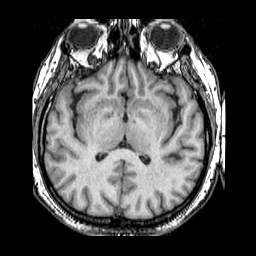
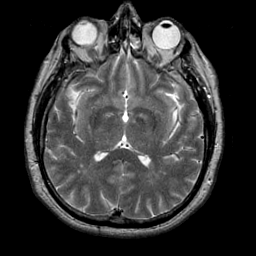
Remove onnx

diff --git a/api/engine.py b/api/engine.py
@@ -5,9 +5,7 @@ Shared inference engine for Med-V²QA.
 
 Loads the MUMC VQA model once at startup and exposes:
 
-* ONNX Runtime sessions for ``visual_encoder`` and ``text_encoder``
-  (primary path, when ``onnx_models/`` is present).
-* Raw PyTorch model as a transparent fallback when ONNX files are absent.
+* Raw PyTorch model for inference.
 
 The engine is instantiated once by ``api/main.py`` and injected into both
 ``GuardrailPipeline`` and ``BatchTriageService`` so the 2.2 GB checkpoint
@@ -15,7 +13,7 @@ is never loaded more than once.
 
 Public interface
 ----------------
-``engine.backend``  → "onnx" | "pytorch"
+``engine.backend``  → "pytorch"
 ``engine.model``    → loaded MUMC_VQA (always needed for decoder generate())
 ``engine.tokenizer``
 ``engine.transform``
@@ -37,10 +35,7 @@ from PIL import Image
 logger = logging.getLogger(__name__)
 
 # Paths relative to project root (one level above api/)
-_REPO_ROOT = Path(__file__).resolve().parent.parent
-_ONNX_DIR = _REPO_ROOT / "onnx_models"
-_VIS_ONNX = _ONNX_DIR / "visual_encoder.onnx"
-_TXT_ONNX = _ONNX_DIR / "text_encoder.onnx"
+
 
 
 class InferenceEngine:
@@ -71,10 +66,7 @@ class InferenceEngine:
         self.model, self.tokenizer, self.transform = load_model(self.device)
         logger.info("MUMC checkpoint loaded.")
 
-        # Always use the PyTorch (.pth) backend — no ONNX sessions.
-        self._vis_session = None
-        self._txt_session = None
-        self.backend: Literal["onnx", "pytorch"] = "pytorch"
+        self.backend: Literal["pytorch"] = "pytorch"
         logger.info("Backend: PyTorch (.pth checkpoint).")
 
     # ------------------------------------------------------------------
@@ -87,11 +79,7 @@ class InferenceEngine:
         return self.transform(image).unsqueeze(0).to(self.device)
 
     def _image_embeds(self, image_tensor: torch.Tensor) -> torch.Tensor:
-        """Run visual encoder (ONNX or PyTorch) → [1, N, 768]."""
-        if self.backend == "onnx":
-            img_np = image_tensor.cpu().numpy().astype(np.float32)
-            output = self._vis_session.run(None, {"image": img_np})
-            return torch.from_numpy(output[0]).to(self.device)
+        """Run visual encoder (PyTorch) → [1, N, 768]."""
         with torch.no_grad():
             return self.model.visual_encoder(image_tensor)
 
@@ -101,16 +89,7 @@ class InferenceEngine:
         image_atts: torch.Tensor,
         q_enc,
     ) -> torch.Tensor:
-        """Run text encoder (ONNX or PyTorch) → last_hidden_state [1, L, 768]."""
-        if self.backend == "onnx":
-            feeds = {
-                "input_ids":               q_enc.input_ids.cpu().numpy().astype(np.int64),
-                "attention_mask":          q_enc.attention_mask.cpu().numpy().astype(np.int64),
-                "encoder_hidden_states":   image_embeds.cpu().numpy().astype(np.float32),
-                "encoder_attention_mask":  image_atts.cpu().numpy().astype(np.int64),
-            }
-            output = self._txt_session.run(None, feeds)
-            return torch.from_numpy(output[0]).to(self.device)
+        """Run text encoder (PyTorch) → last_hidden_state [1, L, 768]."""
         with torch.no_grad():
             out = self.model.text_encoder(
                 q_enc.input_ids,
@@ -166,7 +145,7 @@ class InferenceEngine:
             return_tensors="pt",
         ).to(self.device)
 
-        # 3. Encode via ONNX or PyTorch
+        # 3. Encode via PyTorch
         image_embeds = self._image_embeds(image_tensor)
         image_atts = torch.ones(image_embeds.size()[:-1], dtype=torch.long).to(self.device)
         question_hidden = self._question_hidden_states(image_embeds, image_atts, q_enc)

diff --git a/api/schemas.py b/api/schemas.py
@@ -16,7 +16,7 @@ from pydantic import BaseModel, Field
 
 class HealthResponse(BaseModel):
     status: Literal["ok"] = "ok"
-    backend: Literal["onnx", "pytorch"]
+    backend: Literal["pytorch"]
     device: str
 
 
@@ -57,7 +57,7 @@ class PredictResponse(BaseModel):
     )
 
     gate_detail: GateDetail = Field(default_factory=GateDetail)
-    backend: Literal["onnx", "pytorch"] = Field(
+    backend: Literal["pytorch"] = Field(
         ..., description="Inference backend used for this request."
     )
     latency_ms: Dict[str, float] = Field(
@@ -91,7 +91,7 @@ class TriageResponse(BaseModel):
 
     queue: List[TriageItem] = Field(..., description="Sorted triage queue.")
     total_images: int
-    backend: Literal["onnx", "pytorch"]
+    backend: Literal["pytorch"]
     latency_ms: float = Field(..., description="Total triage pipeline latency in ms.")
 
 

diff --git a/guardrail/config.py b/guardrail/config.py
@@ -47,7 +47,7 @@ MEDICAL_SEED_TOKENS: list[str] = [
 #   0.05 → very permissive (almost no false rejections)
 #   0.10 → default         (good balance; rejects clearly non-medical text)
 #   0.20 → strict          (may reject short or ambiguous clinical questions)
-INTENT_THRESHOLD: float = 0.10
+INTENT_THRESHOLD: float = 0.20
 
 # ---------------------------------------------------------------------------
 # Gate 2 – CLIP Medical Image Classifier
@@ -68,7 +68,7 @@ CLIP_MODEL_PATH: str = os.path.join(_REPO_ROOT, "guardrail", "clip_model")
 #   0.45 → permissive  (flags only obviously non-medical images)
 #   0.55 → default     (good balance; rejects pets, nature photos, selfies)
 #   0.70 → strict      (may reject low-quality or atypical scans)
-CLIP_THRESHOLD: float = 0.55
+CLIP_THRESHOLD: float = 0.60
 
 # Kept for backward-compat with any code that imports these names.
 CONFIDENCE_THRESHOLD: float = CLIP_THRESHOLD
@@ -79,7 +79,7 @@ TRIAGE_YES_THRESHOLD: float = CLIP_THRESHOLD
 # self-contained and does not hard-code paths in multiple places)
 # ---------------------------------------------------------------------------
 
-CHECKPOINT_PATH: str = os.path.join(_REPO_ROOT, "med_pretrain_29_rad_31.pth")
+CHECKPOINT_PATH: str = os.path.join(_REPO_ROOT, "med_pretrain_29_rad_34.pth")
 CONFIG_PATH: str = os.path.join(_REPO_ROOT, "configs", "VQA.yaml")
 TEXT_ENCODER: str = "bert-base-uncased"
 TEXT_DECODER: str = "bert-base-uncased"

diff --git a/api/main.py b/api/main.py
@@ -70,7 +70,7 @@ async def lifespan(app: FastAPI):
     logger.info("  Med-V²QA API — startup")
     logger.info("═" * 60)
 
-    # 1. Load shared inference engine (checkpoint + optional ONNX sessions)
+    # 1. Load shared inference engine (checkpoint)
     _engine = InferenceEngine()
     logger.info("InferenceEngine ready  (backend=%s, device=%s)",
                 _engine.backend, _engine.device)
@@ -203,7 +203,7 @@ async def predict(
 
     - **Gate 1 (intent)** — rejects non-medical questions before the image is processed.
     - **Gate 2 (confidence)** — rejects non-medical images based on Softmax confidence.
-    - **VQA inference** — beam-search decoding via the MUMC model (ONNX-accelerated encoders).
+    - **VQA inference** — beam-search decoding via the MUMC model.
     """
     _require_engine()
     t_start = time.perf_counter()

diff --git a/inference.py b/inference.py
@@ -12,7 +12,7 @@ from dataset.utils import pre_question
 
 
 CONFIG_PATH  = './configs/VQA.yaml'
-CHECKPOINT   = './med_pretrain_29_rad_31.pth'
+CHECKPOINT   = './med_pretrain_29_rad_34.pth'
 TEXT_ENCODER = 'bert-base-uncased'
 TEXT_DECODER = 'bert-base-uncased'
 

diff --git a/mvp.md b/mvp.md
@@ -10,8 +10,8 @@ Med V-Squared QA is an interactive clinical tool designed to streamline medical 
 
 - **Owner:** Long
 - **Description:** The primary multimodal engine. A user uploads a medical image and submits a query. The LLM processes both input data and generates a response.
-- **Model Usage:** Uses the MUMC architecture (converted to ONNX) to process multimodal inputs (medical image + text query) and generate clinical answers.
-- **Technical Requirements:** PyTorch model conversion to ONNX for accelerated inference, FastAPI endpoint integration.
+- **Model Usage:** Uses the PyTorch MUMC architecture to process multimodal inputs (medical image + text query) and generate clinical answers.
+- **Technical Requirements:** FastAPI endpoint integration.
 - **Complexity:** Complex (1.5 - 2 days)
 
 ### Feature 2: Dual-Gate Medical Guardrail (Refusal System)
@@ -72,7 +72,7 @@ Med V-Squared QA is an interactive clinical tool designed to streamline medical 
 
 - **Frontend:** React or Next.js (Deployed via Vercel)
 - **Backend:** Python, FastAPI (Deployed via Railway or Render)
-- **ML Deployment & Optimization:** ONNX Runtime
+- **ML Deployment & Optimization:** PyTorch
 - **Containerization:** **Docker** & Docker Compose
 - **External APIs & Models:** OpenAI Whisper API, Tesseract OCR
 - **External Integrations:**

diff --git a/README.md b/README.md
@@ -10,14 +10,14 @@ MUMC stands for *Masked Vision and Language Pre-training with Unimodal and Multi
 
 ## Pretrained Weights
 
-The fine-tuned VQA checkpoint (epoch 31, ~2.27 GB) is hosted on Hugging Face and **cannot** be stored in this repo due to GitHub LFS limits:
+The fine-tuned VQA checkpoint (epoch 34, ~2.27 GB) is hosted on Hugging Face and **cannot** be stored in this repo due to GitHub LFS limits:
 
 🤗 **[longle0702/medical-vqa on Hugging Face](https://huggingface.co/longle0702/medical-vqa)**
 
 ```bash
 # Download with huggingface_hub
 from huggingface_hub import hf_hub_download
-hf_hub_download(repo_id="longle0702/medical-vqa", filename="med_pretrain_29_rad_31.pth", local_dir="./output/rad/")
+hf_hub_download(repo_id="longle0702/medical-vqa", filename="med_pretrain_29_rad_34.pth", local_dir="./output/rad/")
 ```
 
 The pre-training checkpoint (`pretrain/med_pretrain_29.pth`) is tracked via Git LFS in this repo.